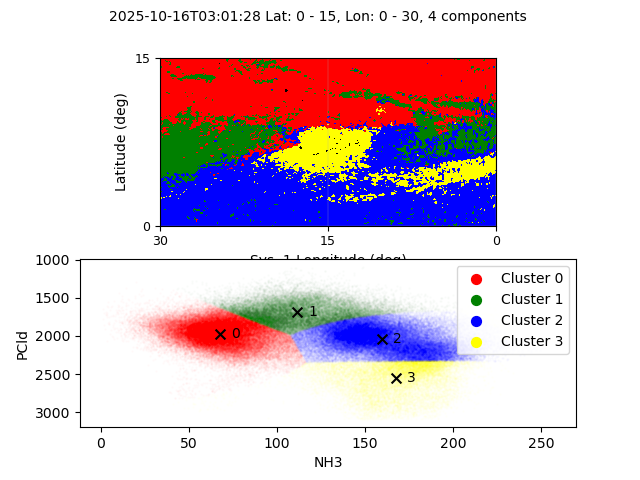
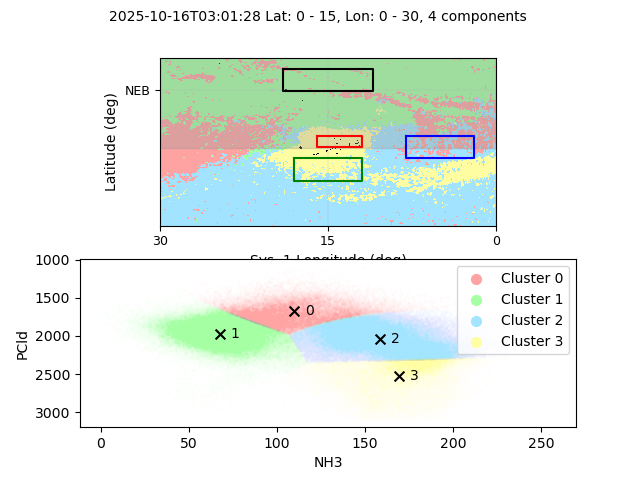
add belts/zones bands and labels

Changed region(s): [[0.1562, 0.125, 0.7812, 0.4688], [0.1875, 0.5625, 0.75, 0.8438]]

diff --git a/scripts/plots/mapping.py b/scripts/plots/mapping.py
@@ -11,6 +11,63 @@ from mpl_toolkits.axes_grid1 import make_axes_locatable
 import matplotlib.patches as patches
 
 
+ROI_cmap = {
+"Hot Spot": 'red',
+                     "Gyre": "green",
+                     "Cloud Plume": "blue",
+                     "Reference": "black"
+}
+
+def label_features(axis, LonLims, LatLims, ROI, showbands):
+    ylim = axis.get_ylim()
+    if ROI:
+        for R in ROI:
+                axis.plot(np.array([ROI[R][2]+ROI[R][3],ROI[R][2]-ROI[R][3],
+                              ROI[R][2]-ROI[R][3],ROI[R][2]+ROI[R][3],
+                              ROI[R][2]+ROI[R][3]]),
+                              90.-np.array([ROI[R][0],ROI[R][0],ROI[R][1],
+                              ROI[R][1],ROI[R][0]]), color = ROI_cmap[R])
+                
+    # box = axis.get_position()
+    
+    belt={"SSTB":[-39.6,-36.2],
+          "STB":[-32.4,-27.1],
+          "SEB":[-19.7,-7.2],
+          "NEB":[6.9,17.4],
+          "NTB":[24.2,31.4],
+          "NNTB":[35.4,39.6]}
+    
+    zone={"STZ":[-36.2,-32.4],
+          "STrZ":[-27.1,-19.7],
+          "EZ":[-7.2,6.9],
+          "NTrZ":[17.4,24.2],
+          "NTZ":[31.4,35.4]}
+
+    bounds = [
+        -39.6, -36.2, -32.4, -27.1, -19.7, -7.2, 6.9, 17.4, 24.2, 31.4, 35.4, 39.6
+    ]
+
+    ticks = [(bounds[i] + bounds[i + 1]) / 2 for i in range(len(bounds) - 1) ]
+
+    lat_range_labels = ["SSTB", "STZ", "STB", "STrZ", "SEB", "EZ", "NEB", "NTrZ", "NTB",  "NTZ", "NNTB"]
+    axis.set_yticks(ticks)
+    axis.set_yticklabels(lat_range_labels)
+  
+    if showbands:
+        for zb in belt:
+            #print(zb,belt[zb])
+            axis.fill_between([360-LonLims[0],360-LonLims[1]],[belt[zb][0],belt[zb][0]],[belt[zb][1],belt[zb][1]],
+                                    color="0.5",alpha=0.25)
+            axis.fill_between([360-LonLims[0],360-LonLims[1]],[belt[zb][0],belt[zb][0]],[belt[zb][1],belt[zb][1]],
+                                    color="0.8",alpha=0.1)
+        #axs1[1].annotate(zb,xy=[np.mean(belt[zb]),51],ha="center")
+    #for zb in zone:
+        #axs1[1].annotate(zb,xy=[np.mean(zone[zb]),51],ha="center")
+    
+    axis.tick_params(axis='both', which='major', labelsize=9)
+    axis.set_ylim(ylim)
+    return axis
+
 def create_axis(axs3, LatLims, LonLims, LonSys):
     #fig3,axs3=pl.subplots(dpi=150, facecolor="white")
     axs3.grid(linewidth=0.2)
@@ -28,15 +85,13 @@ def create_axis(axs3, LatLims, LonLims, LonSys):
     axs3.set_adjustable('box') 
     return axs3
 
-def plot_cluster_patch(patch, LatLims, LonLims, cmap, ROI, axis, v_min, v_max, title, cm_num, fig = None, cbarplot = True, cbar_title = "test"):
+def plot_cluster_patch(patch, LatLims, LonLims, cmap, ROI, axis, v_min, v_max, title, cm_num, fig = None, cbarplot = True, cbar_title = "test", showbands = True):
     '''
     Purpose:
         to plot a patch of clusters with appropriate longitude/latitude scales
     '''  
     n = v_max - v_min
-    print("patch being mapped:")
-    print(patch)
-    #bounds = [i for i in range(v_max - v_min + 1)]
+
     bounds = np.arange(v_min - 0.5, v_max + 0.5, 1)
     norm = colors.BoundaryNorm(bounds, cmap.N)
     create_axis(axis, [LatLims[0] - 90, 90 - LatLims[1]], LonLims,  cm_num)
@@ -50,15 +105,11 @@ def plot_cluster_patch(patch, LatLims, LonLims, cmap, ROI, axis, v_min, v_max, t
                extent=[360 - LonLims[0],360 - LonLims[1],90-LatLims[1],
                        90-LatLims[0]],
                        aspect="equal")
- 
-    if ROI:
-        for R in ROI:
-                axis.plot(np.array([ROI[R][2]+ROI[R][3],ROI[R][2]-ROI[R][3],
-                              ROI[R][2]-ROI[R][3],ROI[R][2]+ROI[R][3],
-                              ROI[R][2]+ROI[R][3]]),
-                              90.-np.array([ROI[R][0],ROI[R][0],ROI[R][1],
-                              ROI[R][1],ROI[R][0]]))
+   
 
+
+    axis = label_features(axis, LonLims, LatLims,  ROI, showbands)
+    
     #axis.set_title(title, pad = 15)
 
     im_ratio = patch.shape[0]/patch.shape[1]
@@ -81,7 +132,7 @@ def plot_cluster_patch(patch, LatLims, LonLims, cmap, ROI, axis, v_min, v_max, t
         #cbar.remove()
 
 
-def plot_patch(patch, LatLims, LonLims, cmap, ROI, axis, v_min, v_max, title, cm_num, fig = None, cbarplot = True, cbar_title = "test", cbar_reverse = False):
+def plot_patch(patch, LatLims, LonLims, cmap, ROI, axis, v_min, v_max, title, cm_num, fig = None, cbarplot = True, cbar_title = "test", cbar_reverse = False, showbands = True):
     '''
     Purpose:
         to plot a patch with appropriate longitude/latitude scales
@@ -104,7 +155,8 @@ def plot_patch(patch, LatLims, LonLims, cmap, ROI, axis, v_min, v_max, title, cm
     #axis.set_title(title, pad = 15)
 
     im_ratio = patch.shape[0]/patch.shape[1]
-    
+    axis = label_features(axis,  LonLims, LatLims, ROI, showbands)
+
     if cbarplot:
         
         cbar = fig.colorbar(show, ticks=tx, 

diff --git a/scripts/processes.py b/scripts/processes.py
@@ -10,8 +10,8 @@ import matplotlib
 from matplotlib.colors import ListedColormap
 import scripts.cluster_stats as STAT
 import pylab as pl
-
-colors =["red", "green", "blue", "yellow", "orange", "pink", "purple", "gray"]
+# red, green, blue, yellow, orange, pink, purple, gray
+colors =[(1, 0.639, 0.639), (0.647, 1, 0.639), (0.639, 0.894, 1), (1, 0.996, 0.639), (1, 0.82, 0.639), (1, 0.639, 0.839), (0.937, 0.639, 1), (0.678, 0.678, 0.678)]
 
 keyword_dict = {
     "PCld": "Cloud Pressure",
@@ -287,7 +287,7 @@ ROI={"Hot Spot":[82,83,14.0,2.0],
 
 #output_comparison_and_plot("20251016", ["AOI", "CI"], [[0.1, 0.4], [0.4, 0.8]], lat_range, lon_range, 5)
 
-output_cluster_map_and_plot("20251016", ["NH3", "PCld"], [[0, 300], [1000,  3100]], lat_range, lon_range, 6, ROI)
+output_cluster_map_and_plot("20251016", ["NH3", "PCld"], [[0, 300], [1000,  3100]], lat_range, lon_range, 4, ROI)
 
 
 # output_cluster_map("20251016",
